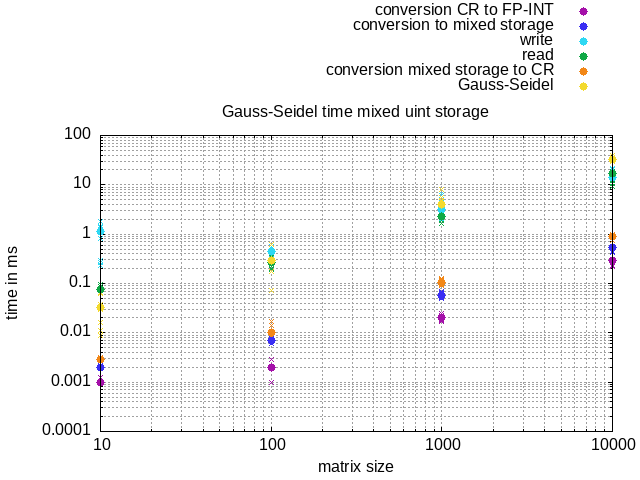
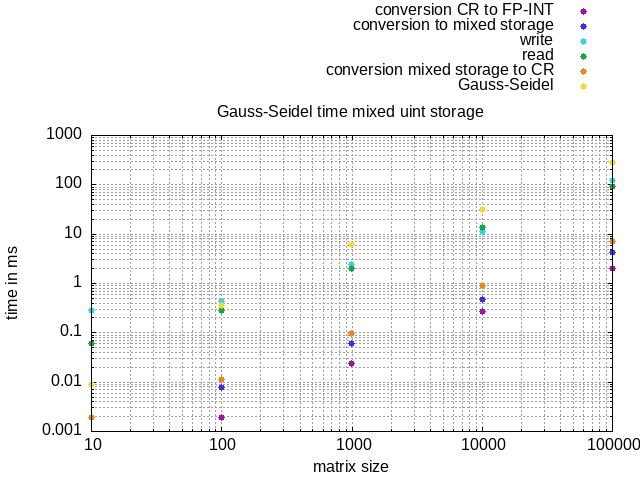
Gauss-Seidel OK

diff --git a/test_GS_CSR.c b/test_GS_CSR.c
@@ -25,66 +25,47 @@ void generate_rhs_ieee(C_R *b, int n)
 }
 
 
-// TODO: without mask
 void generate_matrix_CSR_ieee(C_R **A, int *idx, int **col_id, int n)
 {
     const double r_exp_min = -52.0;
     const double r_exp_max = -5.0; 
     
     idx[0] = 0;
+    int pos = 0;
 
     srand(get_time_ms());
 
-    uint64_t N = n * n;
-    uint64_t n_mask = (N + 7) >> 3; // ceil(N / 8)
-    uint8_t *mask = (uint8_t *)calloc(n_mask, sizeof(uint8_t));
-    int count = 0;
+    // suppose no more than 5 non-zero entries per row
+    int max_nnz = 5 * n;
 
-    for (int i = 0; i < n; i ++) 
-    {
-        uint64_t i_mask = i * n + i;
-        mask[i_mask >> 3] |= (1 << (7 - (i_mask & 0b111)));
-    }
-
-    for (int i = 0; i < n; i ++) 
-    {
-        for (int j = 0; j < n; j ++) 
-        {
-            if (j != i && ((double)rand() / RAND_MAX) < (1.0 / n)) 
-            {
-                uint64_t i_mask = i * n + j;
-                mask[i_mask >> 3] |= (1 << (7 - (i_mask & 0b111)));
-            }
-        }
-    }
-
-    for (int i = 0; i < n_mask; i ++) 
-    {
-        count += __builtin_popcount(mask[i]);
-    }
-
-    *A = (C_R *)malloc(count * sizeof(C_R));
-    *col_id = (int *)malloc(count * sizeof(int));
-
-    int pos = 0;
+    C_R *A_tmp = (C_R *)malloc(max_nnz * sizeof(C_R));
+    int *col_id_tmp = (int *)malloc(max_nnz * sizeof(int));
 
     for (int i = 0; i < n; i ++)
     {
         for (int j = 0; j < n; j ++)
         {
-            uint64_t i_mask = i * n + j;
-            if (mask[i_mask >> 3] & (1 << (7 - (i_mask & 0b111))))
+            if (j == i)
             {
-                (*A)[pos].center = (j == i) ? 4.0 : -1.0;
+                A_tmp[pos].center = 4.0;
                 double r_power = r_exp_min + ((double)rand() / RAND_MAX) * (r_exp_max - r_exp_min);
-                (*A)[pos].radius = pow(2, r_power) * fabs((*A)[pos].center);
-                (*col_id)[pos] = j;
+                A_tmp[pos].radius = pow(2, r_power) * fabs(A_tmp[pos].center);
+                col_id_tmp[pos] = j;
+                pos ++;
+            }
+            else if ((double)rand() / RAND_MAX < (1.0 / n))
+            {
+                A_tmp[pos].center = -1.0;
+                double r_power = r_exp_min + ((double)rand() / RAND_MAX) * (r_exp_max - r_exp_min);
+                A_tmp[pos].radius = pow(2, r_power) * fabs(A_tmp[pos].center);
+                col_id_tmp[pos] = j;
                 pos ++;
             }
         }
         idx[i + 1] = pos;
     }
-    free(mask);
+    *A = (C_R *)realloc(A_tmp, pos * sizeof(C_R));
+    *col_id = (int *)realloc(col_id_tmp, pos * sizeof(int));
 }
 
 
@@ -128,33 +109,24 @@ void generate_rhs_mpfr(MPFR_C_R *b, int n, int precision)
     gmp_randclear(rstate);
 }
 
-
+// precision > 5
 void generate_matrix_CSR_mpfr(MPFR_C_R **A, int *idx, int **col_id, int n, int precision)
 {
-    if (precision < 1) precision = 53;
+    if (precision <= 5) precision = 53;
 
     const double r_exp_min = (double) - precision;
     const double r_exp_max = -5.0; // 0.03125
     const double r_exp_range = r_exp_max - r_exp_min;
 
     idx[0] = 0;
+    int pos = 0;
 
     srand(get_time_ms());
 
-    int N = n * n;
-    bool *mask = (bool *)calloc(N, sizeof(bool));
-    int count = 0;
-    for (int i = 0; i < N; i ++)
-    {
-        if (i % n == 0 || (double)rand()/RAND_MAX < (1.0 / n))
-        {
-            mask[i] = true;
-            count ++;
-        }
-    }
+    int max_nnz = 5 * n;
 
-    *A = (MPFR_C_R *)malloc(count * sizeof(MPFR_C_R));
-    *col_id = (int *)malloc(count * sizeof(int));
+    MPFR_C_R *A_tmp = (MPFR_C_R *)malloc(max_nnz * sizeof(MPFR_C_R));
+    int *col_id_tmp = (int *)malloc(max_nnz * sizeof(int));
 
     mpfr_prec_t prec = (mpfr_prec_t) precision;
 
@@ -162,11 +134,14 @@ void generate_matrix_CSR_mpfr(MPFR_C_R **A, int *idx, int **col_id, int n, int p
     gmp_randinit_default(rstate);
     gmp_randseed_ui(rstate, (unsigned long) get_time_ms());
 
-    mpfr_t rand, r_power, r_range, r_val, abs_c, c_val;
-    mpfr_inits2(prec, rand, r_power, r_range, r_val, abs_c, c_val, NULL);
+    mpfr_t random, r_power, r_range, r_val, abs_c, c_val;
+    mpfr_inits2(prec, random, r_power, r_range, r_val, abs_c, c_val, NULL);
     mpfr_set_d(r_range, r_exp_range, MPFR_RNDN);
-   
-    int pos = 0;
+
+    for (int i = 0; i < max_nnz; i ++)
+    {
+        mpfr_inits2(prec, A_tmp[i].center, A_tmp[i].radius, NULL);
+    }
 
     for (int i = 0; i < n; i ++) 
     {
@@ -174,46 +149,46 @@ void generate_matrix_CSR_mpfr(MPFR_C_R **A, int *idx, int **col_id, int n, int p
         {
             if (j == i)
             {
-                mpfr_inits2(prec, (*A)[pos].center, (*A)[pos].radius, NULL);
-                mpfr_set_d((*A)[pos].center, 4.0, MPFR_RNDN);
-                mpfr_urandomb(rand, rstate);
+                mpfr_set_d(A_tmp[pos].center, 4.0, MPFR_RNDN);
+                mpfr_urandomb(random, rstate);
                 mpfr_set_d(c_val, 4.0, MPFR_RNDN);
                 mpfr_abs(abs_c, c_val, MPFR_RNDN);
 
                 mpfr_set_d(r_power, r_exp_min, MPFR_RNDN);
-                mpfr_fma(r_power, rand, r_range, r_power, MPFR_RNDN);
+                mpfr_fma(r_power, random, r_range, r_power, MPFR_RNDN);
                 mpfr_ui_pow(r_val, 2, r_power, MPFR_RNDN);
                 mpfr_mul(r_val, r_val, abs_c, MPFR_RNDN);
 
-                mpfr_set((*A)[pos].radius, r_val, MPFR_RNDN);
-                (*col_id)[pos] = j;
+                mpfr_set(A_tmp[pos].radius, r_val, MPFR_RNDN);
+                col_id_tmp[pos] = j;
                 pos ++;
             }
             
-            else if (mask[i * n + j])
+            else if ((double)rand() / RAND_MAX < (1.0 / n))
             {
-                mpfr_inits2(prec, (*A)[pos].center, (*A)[pos].radius, NULL);
-                mpfr_set_d((*A)[pos].center, -1.0, MPFR_RNDN);
-                mpfr_urandomb(rand, rstate);
+                mpfr_set_d(A_tmp[pos].center, -1.0, MPFR_RNDN);
+                mpfr_urandomb(random, rstate);
                 mpfr_set_d(c_val, -1.0, MPFR_RNDN);
                 mpfr_abs(abs_c, c_val, MPFR_RNDN);
 
                 mpfr_set_d(r_power, r_exp_min, MPFR_RNDN);
-                mpfr_fma(r_power, rand, r_range, r_power, MPFR_RNDN);
+                mpfr_fma(r_power, random, r_range, r_power, MPFR_RNDN);
                 mpfr_ui_pow(r_val, 2, r_power, MPFR_RNDN);
                 mpfr_mul(r_val, r_val, abs_c, MPFR_RNDN);
 
-                mpfr_set((*A)[pos].radius, r_val, MPFR_RNDN);
-                (*col_id)[pos] = j;
+                mpfr_set(A_tmp[pos].radius, r_val, MPFR_RNDN);
+                col_id_tmp[pos] = j;
                 pos ++;
             }          
         }
         idx[i + 1] = pos;       
     }
 
-    free(mask);
-    mpfr_clears(rand, r_power, r_range, r_val, abs_c, c_val, NULL);
+    mpfr_clears(random, r_power, r_range, r_val, abs_c, c_val, NULL);
     gmp_randclear(rstate);
+
+    *A = (MPFR_C_R *)realloc(A_tmp, pos * sizeof(MPFR_C_R));
+    *col_id = (int *)realloc(col_id_tmp, pos * sizeof(int));
 }
 
 
@@ -252,10 +227,10 @@ int main(int argc, char** argv)
             // initialize x
             for (int i = 0; i < n; i ++)
             {
-                x1[i].center = 0.5;
-                x1[i].radius = 0.5;
-                x2[i].center = 0.5;
-                x2[i].radius = 0.5;
+                x1[i].center = 0.7;
+                x1[i].radius = 0.7;
+                x2[i].center = 0.7;
+                x2[i].radius = 0.7;
             }
             printf("initialized x\n");
 
@@ -590,10 +565,10 @@ int main(int argc, char** argv)
             // initialize x
             for (int i = 0; i < n; i ++)
             {
-                x1[i].center = 0.5;
-                x1[i].radius = 0.5;
-                x2[i].center = 0.5;
-                x2[i].radius = 0.5;
+                x1[i].center = 0.7;
+                x1[i].radius = 0.7;
+                x2[i].center = 0.7;
+                x2[i].radius = 0.7;
             }
             printf("initialized x\n");
 
@@ -872,10 +847,10 @@ int main(int argc, char** argv)
             // initialize x
             for (int i = 0; i < n; i ++)
             {
-                x1[i].center = 0.5;
-                x1[i].radius = 0.5;
-                x2[i].center = 0.5;
-                x2[i].radius = 0.5;
+                x1[i].center = 0.7;
+                x1[i].radius = 0.7;
+                x2[i].center = 0.7;
+                x2[i].radius = 0.7;
             }
 
             // GS ref
@@ -1145,18 +1120,23 @@ int main(int argc, char** argv)
 
             for (int i = 0; i < nnz; i ++)
             {
+                if (A[i].center->_mpfr_d == NULL || A[i].radius->_mpfr_d == NULL) 
+                {
+                    printf("Error: A[%d] not initialized!\n", i);
+                    exit(1);
+                }
                 mpfi_init2(A_mpfi[i], precision);
-                cr_lr(A[i], A_mpfi[i]);
+                cr_lr(&A[i], A_mpfi[i]);
             } 
 
             for (int i = 0; i < n; i ++)
             {
                 mpfi_init2(b_mpfi[i], precision);
-                cr_lr(b[i], b_mpfi[i]);
+                cr_lr(&b[i], b_mpfi[i]);
                 mpfi_init2(x_mpfi[i], precision);
-                mpfi_interv_d(x_mpfi[i], 0.0, 1.0); // Initialize x to [0, 1]
+                mpfi_interv_d(x_mpfi[i], 0.0, 1.4); // Initialize x to [0, 1.4]
                 mpfi_init2(x_mpfi2[i], precision);
-                mpfi_interv_d(x_mpfi2[i], 0.0, 1.0); // Initialize x2 to [0, 1]
+                mpfi_interv_d(x_mpfi2[i], 0.0, 1.4); // Initialize x2 to [0, 1.4]
             }
 
             // GS ref
@@ -1273,7 +1253,7 @@ int main(int argc, char** argv)
                 MPFR_C_R tmp;
                 mpfi_init2(A_mpfi2[i], (mpfr_prec_t)pA_read[i]);
                 tmp = read_mpfr_uls3(A_tilde_read[i]);
-                cr_lr(tmp, A_mpfi2[i]);
+                cr_lr(&tmp, A_mpfi2[i]);
                 mpfr_clear(tmp.center);
                 mpfr_clear(tmp.radius);
             }
@@ -1324,13 +1304,13 @@ int main(int argc, char** argv)
             mpfr_div_ui(bias, bias, n_read, MPFR_RNDN);
             mpfr_div_ui(dilat, dilat, n_read, MPFR_RNDN);
 
-            mpfr_out_str(fp_res, 10, 10, bias, MPFR_RNDN); 
+            mpfr_out_str(fp_res, 10, 17, bias, MPFR_RNDN); 
             fputc('\t', fp_res);
-            mpfr_out_str(fp_res, 10, 10, max_bias, MPFR_RNDN);
+            mpfr_out_str(fp_res, 10, 17, max_bias, MPFR_RNDN);
             fputc('\t', fp_res);
-            mpfr_out_str(fp_res, 10, 10, dilat, MPFR_RNDN);
+            mpfr_out_str(fp_res, 10, 17, dilat, MPFR_RNDN);
             fputc('\t', fp_res);
-            mpfr_out_str(fp_res, 10, 10, max_dilat, MPFR_RNDN);
+            mpfr_out_str(fp_res, 10, 17, max_dilat, MPFR_RNDN);
             fputc('\n', fp_res);
             fclose(fp_res);
            

diff --git a/test_GS.c b/test_GS.c
@@ -867,13 +867,13 @@ int main(int argc, char** argv)
             for (int i = 0; i < nnz; i ++)
             {
                 mpfi_init2(A_mpfi[i], precision);
-                cr_lr(A[i], A_mpfi[i]);
+                cr_lr(&A[i], A_mpfi[i]);
             } 
 
             for (int i = 0; i < n; i ++)
             {
                 mpfi_init2(b_mpfi[i], precision);
-                cr_lr(b[i], b_mpfi[i]);
+                cr_lr(&b[i], b_mpfi[i]);
                 mpfi_init2(x_mpfi[i], precision);
                 mpfi_interv_d(x_mpfi[i], 0.0, 1.0); // Initialize x to [0, 1]
                 mpfi_init2(x_mpfi2[i], precision);
@@ -966,7 +966,7 @@ int main(int argc, char** argv)
                 MPFR_C_R tmp;
                 mpfi_init2(A_mpfi2[i], (mpfr_prec_t)pA_read[i]);
                 tmp = read_mpfr_uls3(A_tilde_read[i]);
-                cr_lr(tmp, A_mpfi2[i]);
+                cr_lr(&tmp, A_mpfi2[i]);
                 mpfr_clear(tmp.center);
                 mpfr_clear(tmp.radius);
             }
@@ -1017,13 +1017,13 @@ int main(int argc, char** argv)
             mpfr_div_ui(bias, bias, n_read, MPFR_RNDN);
             mpfr_div_ui(dilat, dilat, n_read, MPFR_RNDN);
 
-            mpfr_out_str(fp_res, 10, 10, bias, MPFR_RNDN); 
+            mpfr_out_str(fp_res, 10, 17, bias, MPFR_RNDN); 
             fputc('\t', fp_res);
-            mpfr_out_str(fp_res, 10, 10, max_bias, MPFR_RNDN);
+            mpfr_out_str(fp_res, 10, 17, max_bias, MPFR_RNDN);
             fputc('\t', fp_res);
-            mpfr_out_str(fp_res, 10, 10, dilat, MPFR_RNDN);
+            mpfr_out_str(fp_res, 10, 17, dilat, MPFR_RNDN);
             fputc('\t', fp_res);
-            mpfr_out_str(fp_res, 10, 10, max_dilat, MPFR_RNDN);
+            mpfr_out_str(fp_res, 10, 17, max_dilat, MPFR_RNDN);
             fputc('\n', fp_res);
             fclose(fp_res);
            

diff --git a/mpfr_interval.c b/mpfr_interval.c
@@ -72,20 +72,20 @@ MPFR_C_R read_mpfr_uls3(mpfr_t c_tilde)
     return int_cr;
 }
 
-void cr_lr(MPFR_C_R int_cr, mpfi_t int_lr)
+void cr_lr(MPFR_C_R * int_cr, mpfi_t int_lr)
 {
     mpfr_t lo, hi;
-    mpfr_inits2(mpfr_get_prec(int_cr.center), lo, hi, NULL);
+    mpfr_inits2(mpfr_get_prec(int_cr->center), lo, hi, NULL);
 
-    mpfr_sub(lo, int_cr.center, int_cr.radius, MPFR_RNDD);
-    mpfr_add(hi, int_cr.center, int_cr.radius, MPFR_RNDU);
+    mpfr_sub(lo, int_cr->center, int_cr->radius, MPFR_RNDD);
+    mpfr_add(hi, int_cr->center, int_cr->radius, MPFR_RNDU);
 
     mpfi_interv_fr(int_lr, lo, hi); 
 
     mpfr_clears(lo, hi, NULL);
 }
 
-void lr_cr(mpfi_t int_lr, MPFR_C_R *int_cr) 
+void lr_cr(mpfi_t int_lr, MPFR_C_R * int_cr) 
 {
     mpfr_t a, b, tmp;
     mpfr_inits2(mpfi_get_prec(int_lr), a, b, tmp, NULL);

diff --git a/mpfr_interval.h b/mpfr_interval.h
@@ -18,5 +18,5 @@ void interval_GS_CSR_mpfi(mpfi_t *A, int *idx, int *col_id, mpfi_t *b, mpfi_t *x
 
 int check_convergence(mpfi_t *x, mpfi_t *x_prev, int n, double tol);
 
-void cr_lr(MPFR_C_R int_cr, mpfi_t int_lr); 
+void cr_lr(MPFR_C_R * int_cr, mpfi_t int_lr); 
 void lr_cr(mpfi_t int_lr, MPFR_C_R * int_cr);  
